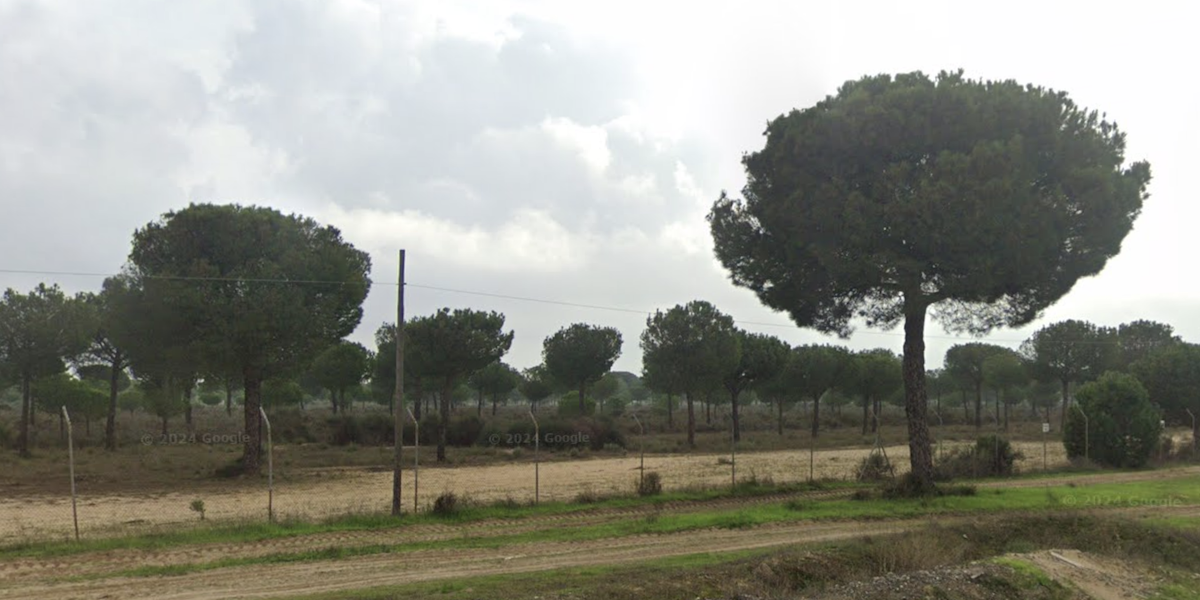
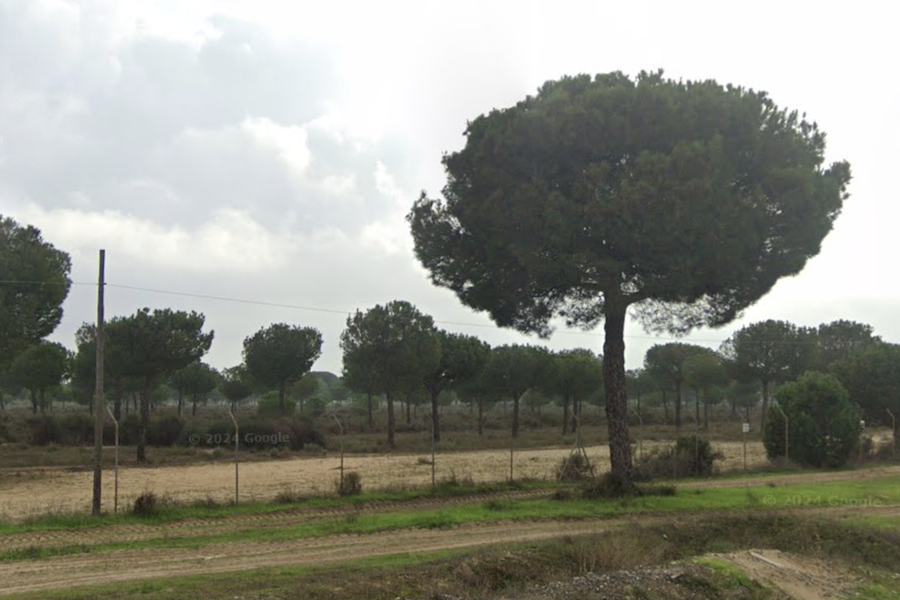
Update Mediterranean pine

diff --git a/content/docs/vegetation/mediterranean-pine/_index.md b/content/docs/vegetation/mediterranean-pine/_index.md
@@ -4,62 +4,75 @@ These Mediterranean pines belong to the [Pinus subsection Pinaster](https://en.w
 
 ## Aleppo pine - [Pinus halepensis](https://en.wikipedia.org/wiki/Pinus_halepensis)
 
-#### Valencia, Spain
+{{% columns %}}
 
-{{<figure src="aleppo-pine-es.png"
+- #### Valencia, Spain
+  {{<figure src="aleppo-pine-es.png" caption="" class="img-lg" loading="lazy"
     link="https://www.google.com/maps/@40.6636865,0.0754124,3a,90y,59.86h,92.95t/data=!3m7!1e1!3m5!1swg2Ot_tLwKmJMC63M2VYwA!2e0!6shttps:%2F%2Fstreetviewpixels-pa.googleapis.com%2Fv1%2Fthumbnail%3Fcb_client%3Dmaps_sv.tactile%26w%3D900%26h%3D600%26pitch%3D-2.946542911964542%26panoid%3Dwg2Ot_tLwKmJMC63M2VYwA%26yaw%3D59.85557537458714!7i16384!8i8192?entry=ttu&g_ep=EgoyMDI1MDYxMS4wIKXMDSoASAFQAw%3D%3D" target="_blank">}}
+- #### Distribution
+  {{<figure src="aleppo-pine-dist.png" caption="" class="img-lg" loading="lazy"
+    link="https://www.inaturalist.org/observations?subview=map&taxon_id=82722" target="_blank">}}
 
-{{% details "Distribution" %}}
-{{<figure src="https://upload.wikimedia.org/wikipedia/commons/thumb/9/96/Pinus_halepensis_range.png/1024px-Pinus_halepensis_range.png" caption="" >}}
-{{% /details %}}
+{{% /columns %}}
 
 
 ## Turkish pine - [Pinus brutia](https://en.wikipedia.org/wiki/Pinus_brutia)
 
-- really similar to Aleppo pine
-- cones persist longer on branches.
+- Really similar to Aleppo pine
+- Cones persist longer on branches.
 
-#### Aydin, Turkey
+{{% columns %}}
 
-{{<figure src="turkish-pine.png"
+- #### Aydin, Turkey
+  {{<figure src="turkish-pine-tr.png" caption="" class="img-lg" loading="lazy"
     link="https://www.google.com/maps/@37.770819,28.739457,3a,95.3y,322.77h,99.00t/data=!3m5!1e1!3m3!1s_O1dMfPjR7ABpYox8mmWAQ!2e0!6shttps%3A%2F%2Fstreetviewpixels-pa.googleapis.com%2Fv1%2Fthumbnail%3Fw%3D900%26h%3D600%26panoid%3D_O1dMfPjR7ABpYox8mmWAQ%26cb_client%3Dmaps_sv.share%26yaw%3D322.7652692475752%26pitch%3D-8.995925367104633%26thumbfov%3D95?coh=235716&entry=tts" target="_blank">}}
+- #### Distribution
+  {{<figure src="turkish-pine-dist.png" caption="" class="img-lg" loading="lazy"
+    link="https://www.inaturalist.org/observations?subview=map&taxon_id=135778" target="_blank">}}
 
-
-{{% details "Distribution" %}}
-{{<figure src="https://upload.wikimedia.org/wikipedia/commons/thumb/0/0a/Pinus_brutia_range.svg/1024px-Pinus_brutia_range.svg.png" caption="" >}}
-{{% /details %}}
+{{% /columns %}}
 
 ## Maritime pine - [Pinus pinaster](https://en.wikipedia.org/wiki/Pinus_pinaster)
 
-- Tall, straight trunks with relatively sparse lower branches
+Tall, straight trunks with relatively sparse lower branches
 
-#### Landes, France
+{{% columns %}}
 
-{{<figure src="maritime-pine.png"
+- #### Landes, France
+  {{<figure src="maritime-pine-fr.png" caption="" class="img-lg" loading="lazy"
     link="https://www.google.com/maps/@44.3601173,-0.5463421,3a,81.7y,252.38h,107.64t/data=!3m7!1e1!3m5!1skeab9KNbvJ2IggFDoqRHAg!2e0!6shttps:%2F%2Fstreetviewpixels-pa.googleapis.com%2Fv1%2Fthumbnail%3Fcb_client%3Dmaps_sv.tactile%26w%3D900%26h%3D600%26pitch%3D-17.641985310443516%26panoid%3Dkeab9KNbvJ2IggFDoqRHAg%26yaw%3D252.37728289948473!7i16384!8i8192?entry=ttu&g_ep=EgoyMDI1MDYxMS4wIKXMDSoASAFQAw%3D%3D" target="_blank">}}
+- #### Distribution
+  {{<figure src="maritime-pine-dist.png" caption="" class="img-lg" loading="lazy"
+    link="https://www.inaturalist.org/observations?subview=map&taxon_id=82723" target="_blank">}}
 
-{{% details "Distribution" %}}
-{{<figure src="https://upload.wikimedia.org/wikipedia/commons/thumb/5/57/Pinus_pinaster_range.svg/982px-Pinus_pinaster_range.svg.png" caption="" >}}
-{{% /details %}}
+{{% /columns %}}
 
 ## Stone pine - [Pinus pinea](https://en.wikipedia.org/wiki/Pinus_pinea)
 
-#### Andalusia, Spain
+{{% columns %}}
 
-{{<figure src="stone-pine-es.png"
+- #### Andalusia, Spain
+  {{<figure src="stone-pine-es.png" caption="" class="img-lg" loading="lazy"
     link="https://www.google.com/maps/@37.1177232,-6.5000636,3a,67.6y,165.7h,88.96t/data=!3m7!1e1!3m5!1sIA2d_RL-bIVXwN5uWGMBNQ!2e0!6shttps:%2F%2Fstreetviewpixels-pa.googleapis.com%2Fv1%2Fthumbnail%3Fcb_client%3Dmaps_sv.tactile%26w%3D900%26h%3D600%26pitch%3D1.0400000000000063%26panoid%3DIA2d_RL-bIVXwN5uWGMBNQ%26yaw%3D165.7!7i16384!8i8192?entry=ttu&g_ep=EgoyMDI1MDYxMS4wIKXMDSoASAFQAw%3D%3D" target="_blank">}}
+- #### Distribution
+  {{<figure src="stone-pine-dist.png" caption="" class="img-lg" loading="lazy"
+    link="https://www.inaturalist.org/observations?subview=map&taxon_id=63621" target="_blank">}}
 
-{{% details "Distribution" %}}
-{{<figure src="https://upload.wikimedia.org/wikipedia/commons/thumb/4/46/Pinus_pinea_range.svg/1024px-Pinus_pinea_range.svg.png" caption="" >}}
-{{% /details %}}
+{{% /columns %}}
 
 
 ## Canary Island pine - [Pinus canariensis](https://en.wikipedia.org/wiki/Pinus_canariensis)
 
-- Long needles, which make the crown look a bit “fluffier” or more feathery compared to some other pines
+Long needles, which make the crown look a bit “fluffier” or more feathery compared to some other pines
 
-#### Tenerife, Spain
+{{% columns %}}
 
-{{<figure src="canary-island-pine.png"
+- #### Tenerife, Spain
+  {{<figure src="canary-island-pine.png" caption="" class="img-lg" loading="lazy"
     link="https://www.google.com/maps/@28.167005,-16.635035,3a,106.3y,3.42h,130.28t/data=!3m5!1e1!3m3!1sY9l-CtwwFI4f8cvLtVIkPQ!2e0!6shttps%3A%2F%2Fstreetviewpixels-pa.googleapis.com%2Fv1%2Fthumbnail%3Fw%3D900%26h%3D600%26panoid%3DY9l-CtwwFI4f8cvLtVIkPQ%26cb_client%3Dmaps_sv.share%26yaw%3D3.4224527617609315%26pitch%3D-40.28235891655842%26thumbfov%3D106?coh=235716&entry=tts" target="_blank">}}
+- #### Distribution
+  {{<figure src="canary-island-pine-dist.png" caption="" class="img-lg" loading="lazy"
+    link="https://www.inaturalist.org/observations?subview=map&taxon_id=47560" target="_blank">}}
+
+{{% /columns %}}
 